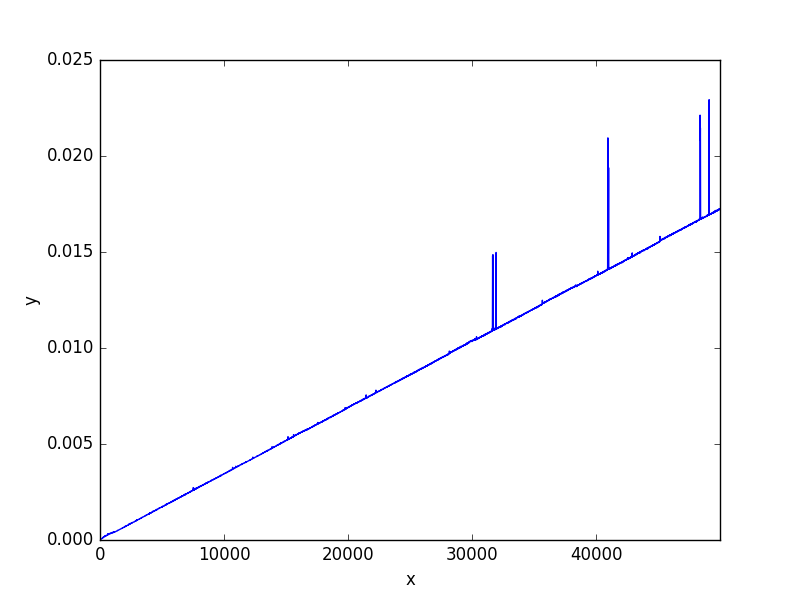
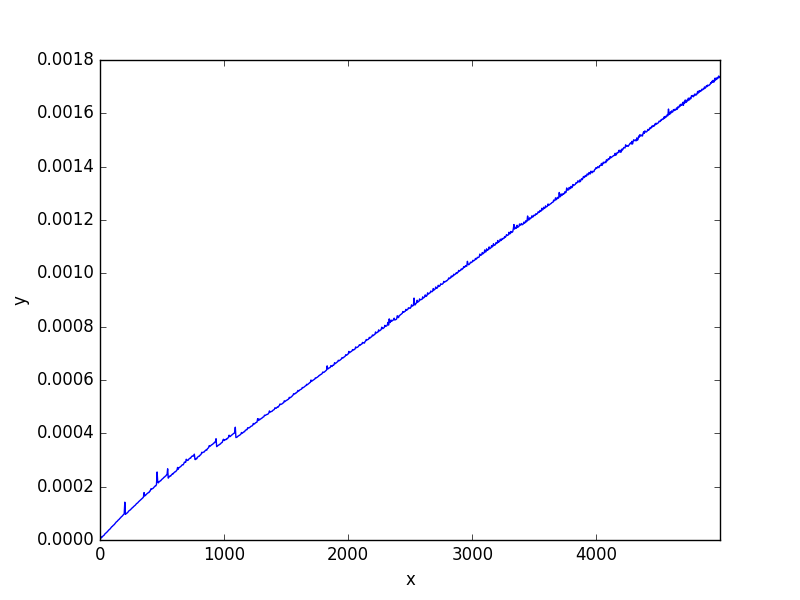
get

diff --git a/hash/hashCUDA.py b/hash/hashCUDA.py
@@ -13,6 +13,8 @@ from pycuda import driver, compiler, gpuarray, tools
 import pycuda.autoinit
 import pycuda.driver as drv
 
+import time
+
 
 kernel_code_template = """
 __global__ void findHash(char *a, int *c)
@@ -31,7 +33,7 @@ x = []
 x.append(0)
 times.append(0)
 
-for mult in range(1,10000):
+for mult in range(1,1000):
     totalLen = davidLen * mult
     a_cpu = np.chararray(totalLen, )
     appendDavid = appendDavid + david

diff --git a/hash/hashOpenCL.py b/hash/hashOpenCL.py
@@ -45,7 +45,7 @@ x = []
 x.append(0)
 times.append(0)
 
-for mult in range(1,10):
+for mult in range(1,1000):
     totalLen = davidLen * mult
     a = np.chararray(totalLen, )
     appendDavid = appendDavid + david

diff --git a/hash/hash.py b/hash/hash.py
@@ -7,7 +7,7 @@ times = []
 x = []
 x.append(0)
 times.append(0)
-for mult in range(1,10000):
+for mult in range(1,1000):
     totalLen = davidLen * mult
     appendDavid = appendDavid + name
     list1 = []
